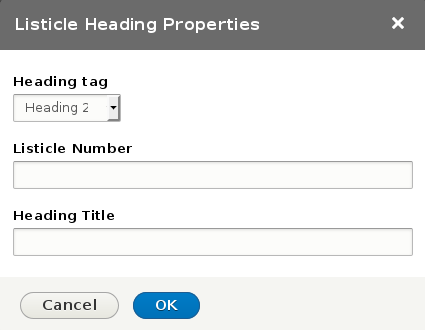
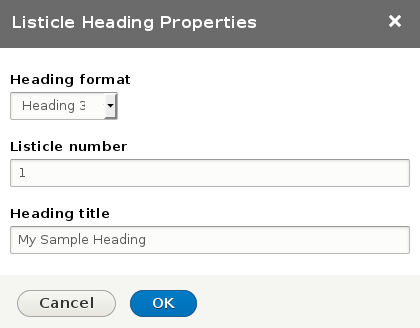
Issue #1: Rename listicleh plugin to listicleheading

diff --git a/js/plugins/listicleheading/plugin.js b/js/plugins/listicleheading/plugin.js
@@ -8,42 +8,42 @@
 
 (function ($) {
   // Register the plugin within the editor.
-  CKEDITOR.plugins.add('listicleh', {
+  CKEDITOR.plugins.add('listicleheading', {
     lang: 'en',
 
     // Register the icons.
-    icons: 'listicleh',
+    icons: 'listicleheading',
 
     // The plugin initialization logic goes inside this method.
     init: function (editor) {
-      var lang = editor.lang.listicleh;
+      var lang = editor.lang.listicleheading;
 
       // Define an editor command that opens our dialog.
-      editor.addCommand('listicleh', new CKEDITOR.dialogCommand('listiclehDialog'));
+      editor.addCommand('listicleheading', new CKEDITOR.dialogCommand('listicleheadingDialog'));
 
       // Create a toolbar button that executes the above command.
-      editor.ui.addButton('listicleh', {
+      editor.ui.addButton('listicleheading', {
 
         // The text part of the button (if available) and tooptip.
         label: lang.buttonTitle,
 
         // The command to execute on click.
-        command: 'listicleh',
+        command: 'listicleheading',
 
         // The button placement in the toolbar (toolbar group name).
         toolbar: 'insert',
 
         // The path to the icon.
-        icon: this.path + 'icons/listicleh.png'
+        icon: this.path + 'icons/listicleheading.png'
       });
 
       if (editor.contextMenu) {
-        editor.addMenuGroup('listiclehGroup');
-        editor.addMenuItem('listiclehItem', {
+        editor.addMenuGroup('listicleheadingGroup');
+        editor.addMenuItem('listicleheadingItem', {
           label: lang.menuItemTitle,
-          icon: this.path + 'icons/listicleh.png',
-          command: 'listicleh',
-          group: 'listiclehGroup'
+          icon: this.path + 'icons/listicleheading.png',
+          command: 'listicleheading',
+          group: 'listicleheadingGroup'
         });
 
         editor.contextMenu.addListener(function (element) {
@@ -54,7 +54,7 @@
       }
 
       // Register our dialog file. this.path is the plugin folder path.
-      CKEDITOR.dialog.add('listiclehDialog', this.path + 'dialogs/listicleh.js');
+      CKEDITOR.dialog.add('listicleheadingDialog', this.path + 'dialogs/listicleheading.js');
     }
   });
 })(jQuery);

diff --git a/js/plugins/listicleheading/dialogs/listicleheading.js b/js/plugins/listicleheading/dialogs/listicleheading.js
@@ -1,14 +1,14 @@
 /**
  * @file
- * The listicleh dialog definition.
+ * The listicleheading dialog definition.
  *
  * Created out of the CKEditor Plugin SDK:
  * http://docs.ckeditor.com/#!/guide/plugin_sdk_sample_1
  */
 
 // Our dialog definition.
-CKEDITOR.dialog.add('listiclehDialog', function (editor) {
-  var lang = editor.lang.listicleh;
+CKEDITOR.dialog.add('listicleheadingDialog', function (editor) {
+  var lang = editor.lang.listicleheading;
 
   return {
 
@@ -156,7 +156,7 @@ CKEDITOR.dialog.add('listiclehDialog', function (editor) {
       // Create a new <div> element if it does not exist.
       if (!element || element.getName() !== 'div') {
         element = editor.document.createElement('div');
-        element.setAttribute("class", "listicle");
+        element.setAttribute("class", "listicle-heading");
 
         // Flag the insertion mode for later use.
         this.insertMode = true;

diff --git a/js/plugins/listicleheading/lang/en.js b/js/plugins/listicleheading/lang/en.js
@@ -1,17 +1,17 @@
 /**
  * @file
- * The listicleh language string definitions.
+ * The listicleheading language string definitions.
  */
 
 "use strict"
 
-CKEDITOR.plugins.setLang('listicleh', 'en', {
+CKEDITOR.plugins.setLang('listicleheading', 'en', {
     buttonTitle: 'Insert Listicle Heading',
     menuItemTitle: 'Edit Listicle Heading',
     dialogTitle: 'Listicle Heading Properties',
-    dialogListicleHeadingFormat: 'Heading tag',
-    dialogListicleHeadingNumber: 'Listicle Number',
-    dialogListicleHeadingTitle: 'Heading Title',
+    dialogListicleHeadingFormat: 'Heading format',
+    dialogListicleHeadingNumber: 'Listicle number',
+    dialogListicleHeadingTitle: 'Heading title',
     dialogHeading1: 'Heading 1',
     dialogHeading2: 'Heading 2',
     dialogHeading3: 'Heading 3',

diff --git a/src/Plugin/CKEditorPlugin/ListicleHeadingCKEditorButton.php b/src/Plugin/CKEditorPlugin/ListicleHeadingCKEditorButton.php
@@ -6,14 +6,14 @@ use Drupal\ckeditor\CKEditorPluginBase;
 use Drupal\editor\Entity\Editor;
 
 /**
- * Defines the "listicleh" plugin.
+ * Defines the "listicleheading" plugin.
  *
  * NOTE: The plugin ID ('id' key) corresponds to the CKEditor plugin name.
  * It is the first argument of the CKEDITOR.plugins.add() function in the
  * plugin.js file.
  *
  * @CKEditorPlugin(
- *   id = "listicleh",
+ *   id = "listicleheading",
  *   label = @Translation("Listicle heading ckeditor button")
  * )
  */
@@ -29,11 +29,11 @@ class ListicleHeadingCKEditorButton extends CKEditorPluginBase {
   public function getButtons() {
     // Make sure that the path to the image matches the file structure of
     // the CKEditor plugin you are implementing.
-    $path = drupal_get_path('module', 'listicle_heading') . '/js/plugins/listicleh';
+    $path = drupal_get_path('module', 'listicle_heading') . '/js/plugins/listicleheading';
     return array(
-      'listicleh' => array(
+      'listicleheading' => array(
         'label' => t('Listicle Heading ckeditor button'),
-        'image' => $path . '/icons/listicleh.png',
+        'image' => $path . '/icons/listicleheading.png',
       ),
     );
   }
@@ -44,7 +44,7 @@ class ListicleHeadingCKEditorButton extends CKEditorPluginBase {
   public function getFile() {
     // Make sure that the path to the plugin.js matches the file structure of
     // the CKEditor plugin you are implementing.
-    return drupal_get_path('module', 'listicle_heading') . '/js/plugins/listicleh/plugin.js';
+    return drupal_get_path('module', 'listicle_heading') . '/js/plugins/listicleheading/plugin.js';
   }
 
   /**

diff --git a/README.md b/README.md
@@ -9,7 +9,7 @@ A CKEditor plugin for Drupal 8 and to create headings preceded by a number and a
 Using the CKEditor plugin you can enter the heading format (h2, h3, etc.) a number and the heading text. This would be the source code created:
 
 ```
-<div class="listicle">
+<div class="listicle-heading">
 <h3><span class="number">1</span><span class="separator">. </span><span class="title">My Sample Heading</span></h3>
 </div>
 ```
